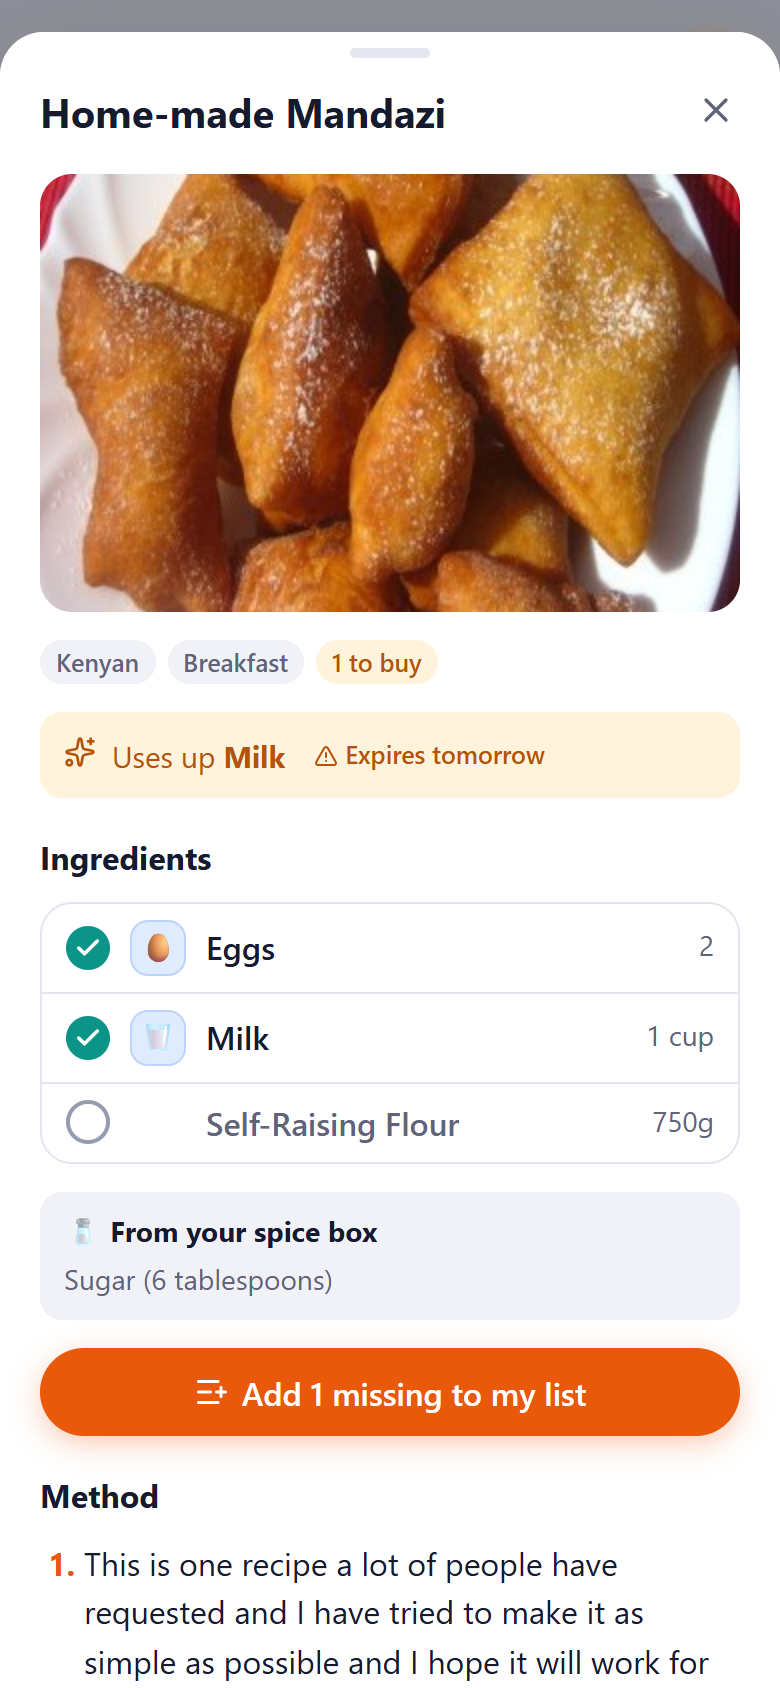
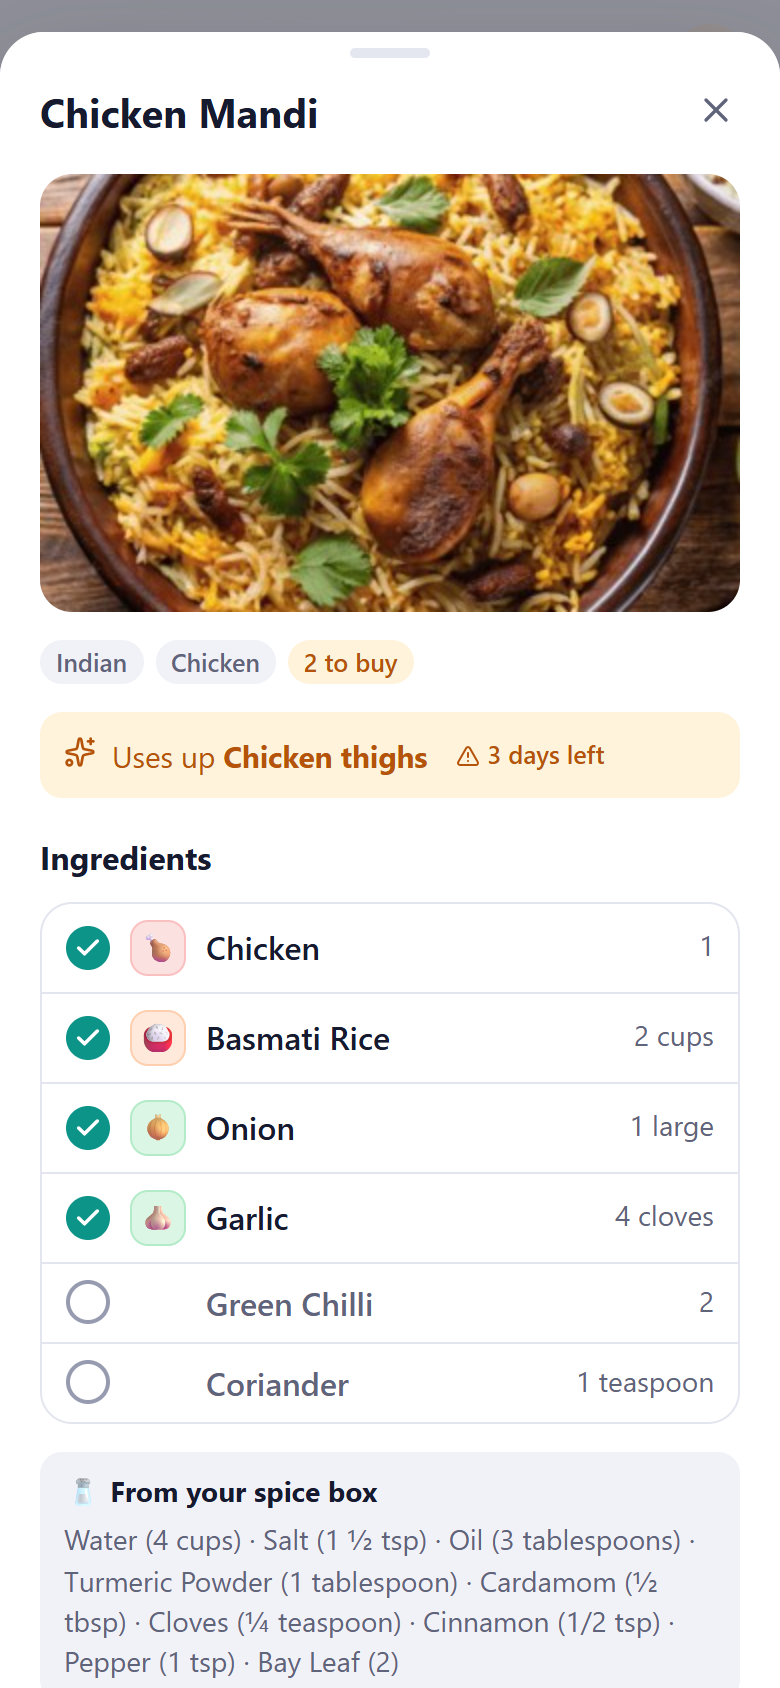
Refresh all README screenshots and add swipe, delete, Indian recipe and settings

diff --git a/README.md b/README.md
@@ -28,10 +28,15 @@ free tiers, and it runs at zero cost for personal use.
 | ![Home](docs/screenshots/home.png) | ![Shopping list](docs/screenshots/shopping-list.png) | ![Pantry](docs/screenshots/pantry.png) | ![Spending](docs/screenshots/spending.png) |
 | A daily summary: what to buy, what to use soon, what's running low, and budget progress | Two items in the cart, suggestions for items running low and bought before | Grouped by aisle, with expiry, low-stock and storage location at a glance | A monthly budget with a dashed limit line, a 6-month trend, and a breakdown by store |
 
-| Receipt scanning | What can I cook? | Recipe | Dark mode |
+| Receipt scanning | What can I cook? | Recipe | Indian recipe |
 |---|---|---|---|
-| ![Receipt scan](docs/screenshots/receipt-scan.png) | ![Recipes](docs/screenshots/recipes.png) | ![Recipe](docs/screenshots/recipe.png) | ![Dark mode](docs/screenshots/home-dark.png) |
-| A photo of a receipt read on the device, with the discount applied and the total matching | Recipes ranked by how much you already have, with expiring food first | What you have, what's missing (one tap adds it to your list), and the method | Every screen has a designed dark theme, not an inverted one |
+| ![Receipt scan](docs/screenshots/receipt-scan.png) | ![Recipes](docs/screenshots/recipes.png) | ![Recipe](docs/screenshots/recipe.png) | ![Indian recipe](docs/screenshots/indian-recipe.png) |
+| A photo of a receipt read on the device, with the discount applied and the total matching | Recipes ranked by how much you already have, with expiring food first, filtered by All, Indian or Vegetarian | What you have, what's missing (one tap adds it to your list), and the method | One of the 45 built-in Indian recipes, with spices listed separately as "from your spice box" |
+
+| Swipe to delete | Delete at zero | Settings | Dark mode |
+|---|---|---|---|
+| ![Swipe to delete](docs/screenshots/swipe-delete.png) | ![Delete at zero](docs/screenshots/delete-at-zero.png) | ![Settings](docs/screenshots/settings.png) | ![Dark mode](docs/screenshots/home-dark.png) |
+| Swipe a row left to reveal Delete, or all the way to delete it, with undo | When an item reaches 0, its minus button becomes a delete button | Currency, monthly budget, CSV export and keyboard shortcuts | Every screen has a designed dark theme, not an inverted one |
 
 Screenshots use sample data. Recipe photos are from [TheMealDB](https://www.themealdb.com).
 
